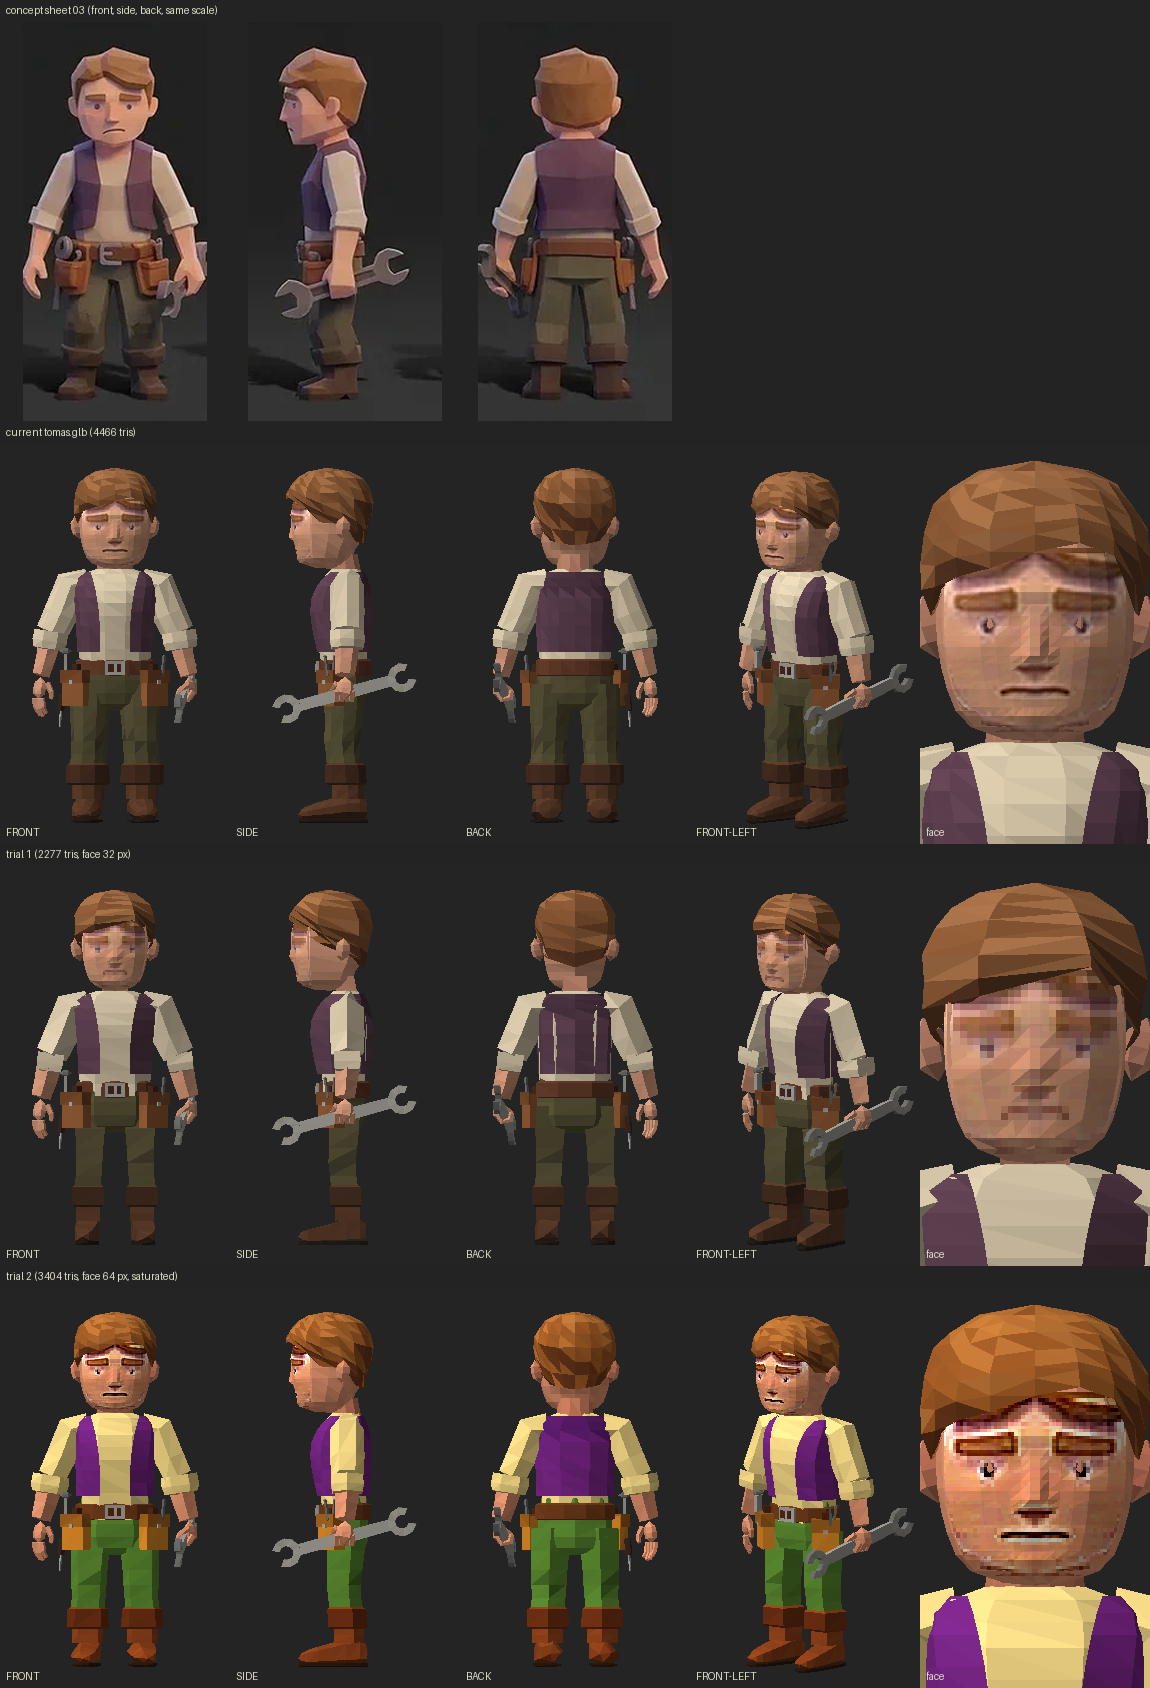
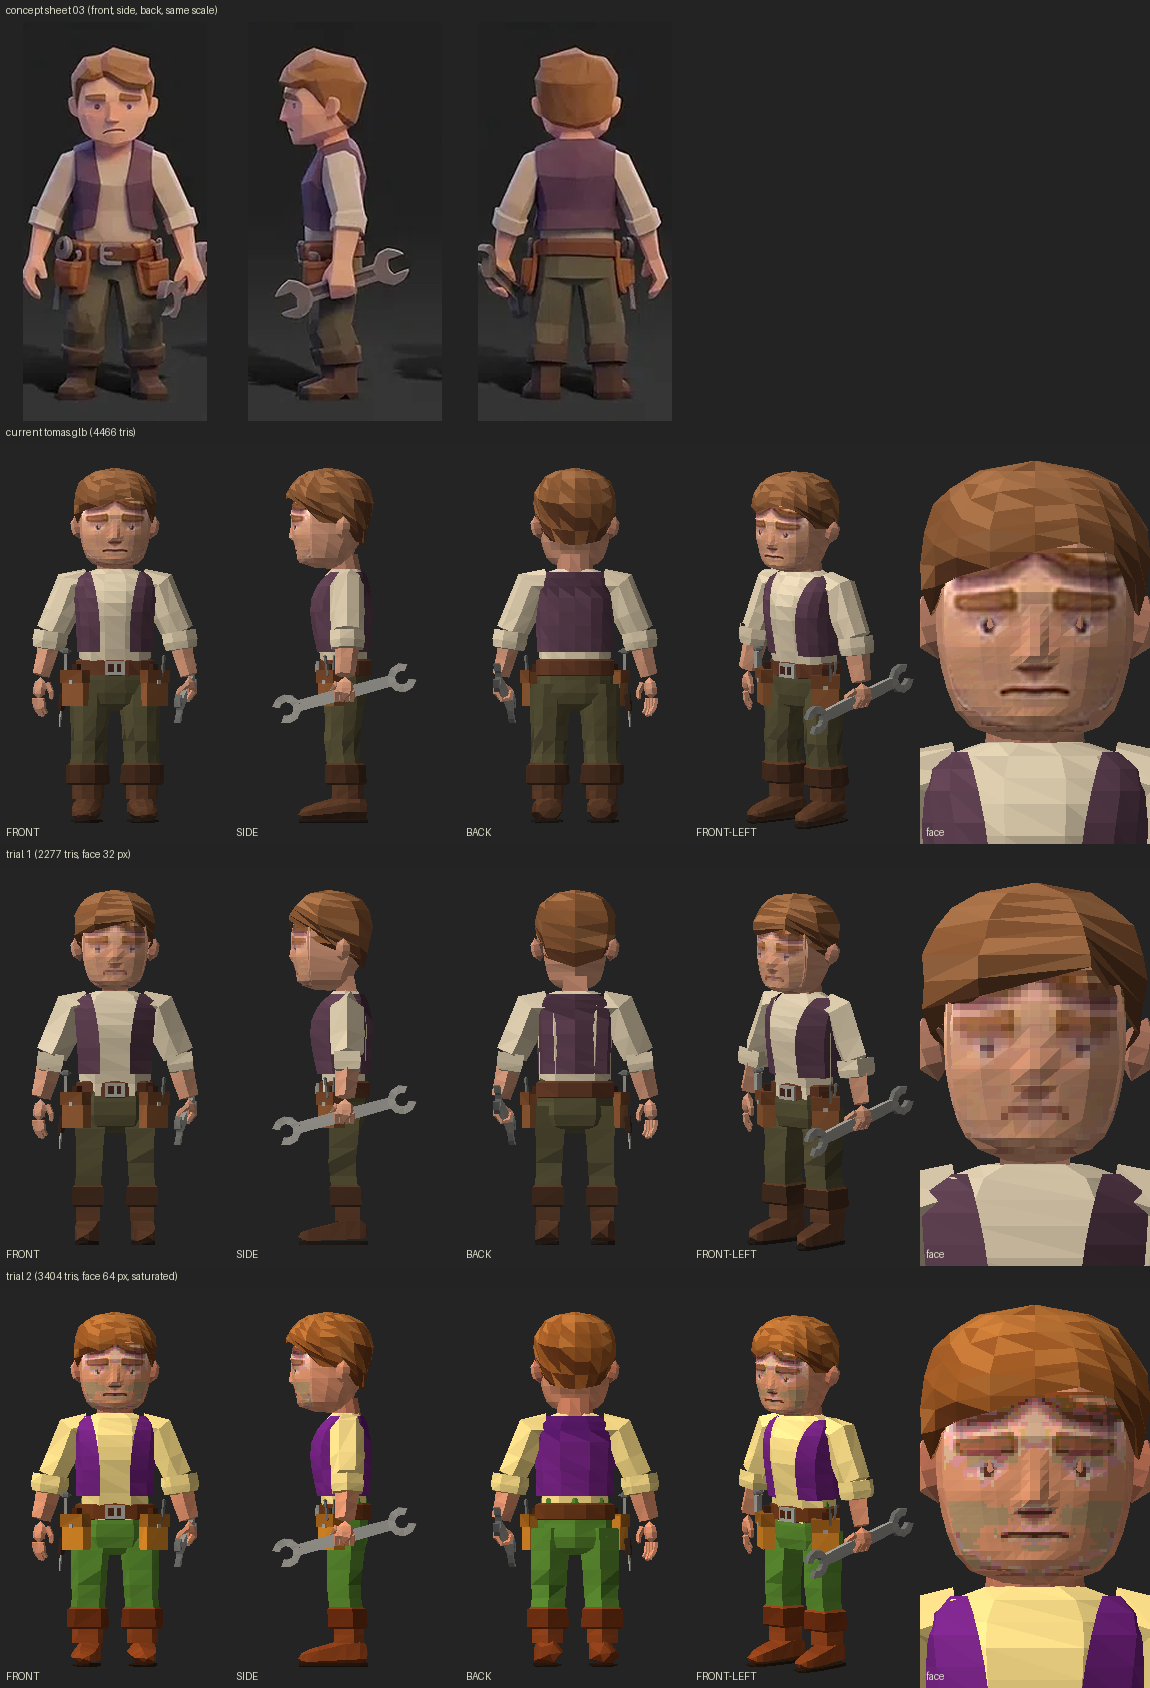
Rework the second Tomas trial's face to read like the references
The 64 px face was a soft photo crop, so the brows and mouth blurred. The
face now takes the features from the sheet's darkest 6% of the central
face, in one feature colour, and posterises the skin to 8 levels per
channel. A thicker feature read as a moustache, so it is not used. The
trial GLB and the preview are regenerated; the game does not load them.

Claude-Session: https://claude.ai/code/session_014p5LdPd2fgr58tCgjX79n1

diff --git a/tools/characters/tomas_crude2.py b/tools/characters/tomas_crude2.py
@@ -31,6 +31,9 @@ import tomas_preview as tp  # noqa: E402
 PART_DETAIL = {'legs': .5, 'torso': .6, 'belt': .6, 'arms': .7, 'head': 1.0, 'hair': 1.0, 'wrench': 1.0}
 # the hands keep full density inside the arms (build_hand is called from build_arms)
 HAND_DETAIL = 1.0
+# the face's features: the darkest FEATURE_PERCENTILE of the central face, in one colour (a bold read at 64 px)
+FEATURE_PERCENTILE = 6
+FEATURE_COLOUR = (.34, .19, .13)
 # saturated colour blocks, all within SC7 (jewel tones and the earthy anchors); the shipped values are in tomas.PALETTE
 TRIAL2_PALETTE = {
     'skin': (.86, .56, .42), 'skin_d': (.70, .42, .32), 'neck': (.78, .48, .36),
@@ -94,15 +97,23 @@ def build_trial2(cx):
 
 
 def face_texture(src_png, px=64):
-    """The sheet's own face crop at px texels, contrast raised so the features read, quantised to 5 bits per channel."""
+    """The sheet's face at px texels, read like the references' faces: the darkest 6% of the central face (brows,
+    eyes, mouth line) becomes one feature colour, not thickened; the skin is posterised to 8 levels per channel.
+    Quantised to 5 bits per channel. Returns the PNG bytes (embedded as is) and the image (for the preview)."""
     img = Image.open(src_png).convert('RGB').resize((px, px), Image.BOX)
-    img = ImageEnhance.Contrast(img).enhance(1.45)
-    img = img.filter(ImageFilter.UnsharpMask(radius=1, percent=140, threshold=0))
-    a = np.asarray(img).astype(float) / 255
-    a = np.round(np.round(a * 31) / 31 * 255).astype(np.uint8)
+    arr = np.asarray(img).astype(float) / 255
+    luma = arr @ np.array([.2126, .7152, .0722])
+    centre = np.zeros((px, px), bool)
+    lo, hi = px // 5, px - px // 5
+    centre[lo:hi, lo:hi] = True
+    cut = np.percentile(luma[centre], FEATURE_PERCENTILE)
+    feature = (luma <= cut) & centre
+    out = np.round(arr * 7) / 7
+    out[feature] = FEATURE_COLOUR
+    out = np.round(np.round(out * 31) / 31 * 255).astype(np.uint8)
     buf = io.BytesIO()
-    Image.fromarray(a).save(buf, 'PNG')
-    return buf.getvalue(), Image.fromarray(a)
+    Image.fromarray(out).save(buf, 'PNG')
+    return buf.getvalue(), Image.fromarray(out)
 
 
 def preview(path, cx, rows):

diff --git a/docs/art/crude_trial/COMPARISON.md b/docs/art/crude_trial/COMPARISON.md
@@ -54,3 +54,10 @@ Preview: `docs/art/crude_trial/tomas_crude2.png` (four rows: concept sheet, curr
 Still unlike the references: the hair is still a helmet, the silhouette is unchanged (R13), and the trousers read a
 little bright. The face is smoother than reference 11's blurred textures, on purpose, so the expression stays readable.
 The judgement is against references 11 and 12.
+
+### Face, second pass
+
+The first 64 px face was a soft photo crop, so the brows and mouth blurred. The face now takes the features from the
+sheet's own darkest 6% of the central face, in one feature colour, and posterises the skin to 8 levels per channel
+(the references' few-tone faces). A thicker feature (a one-texel dilation) read as a moustache under the nose, so it is
+not used. The eyes are still smaller than in references 11 and 12.
